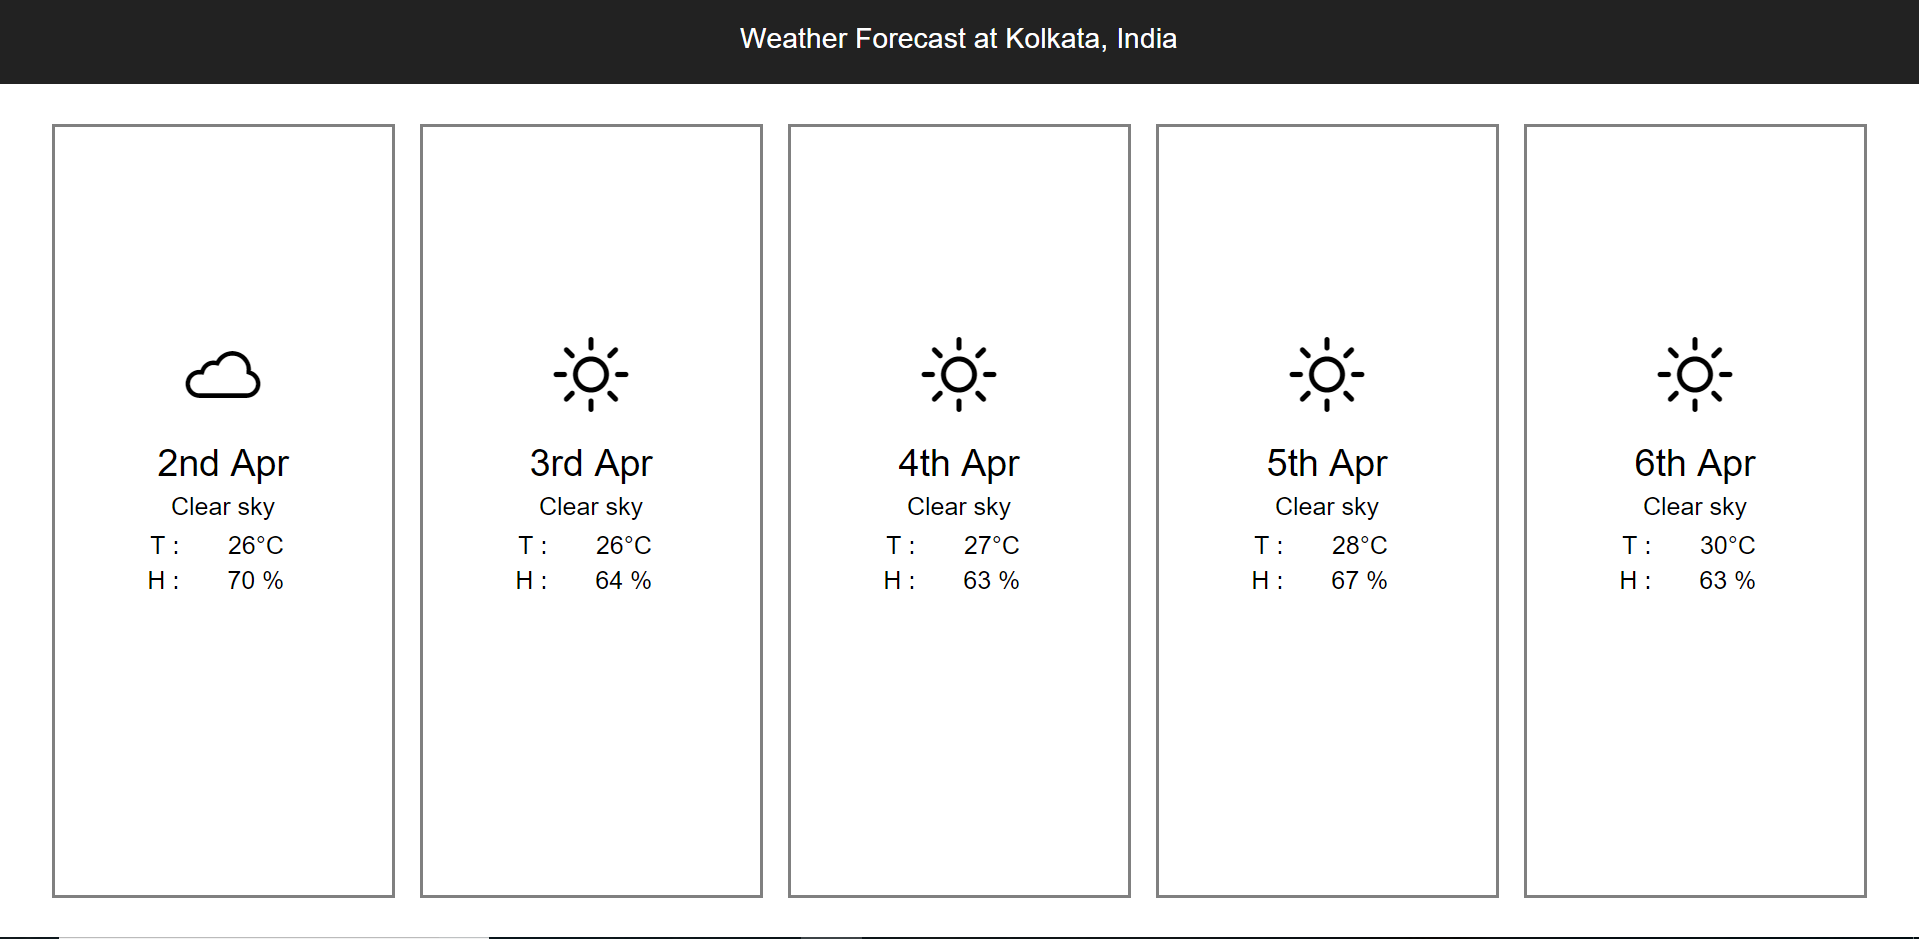
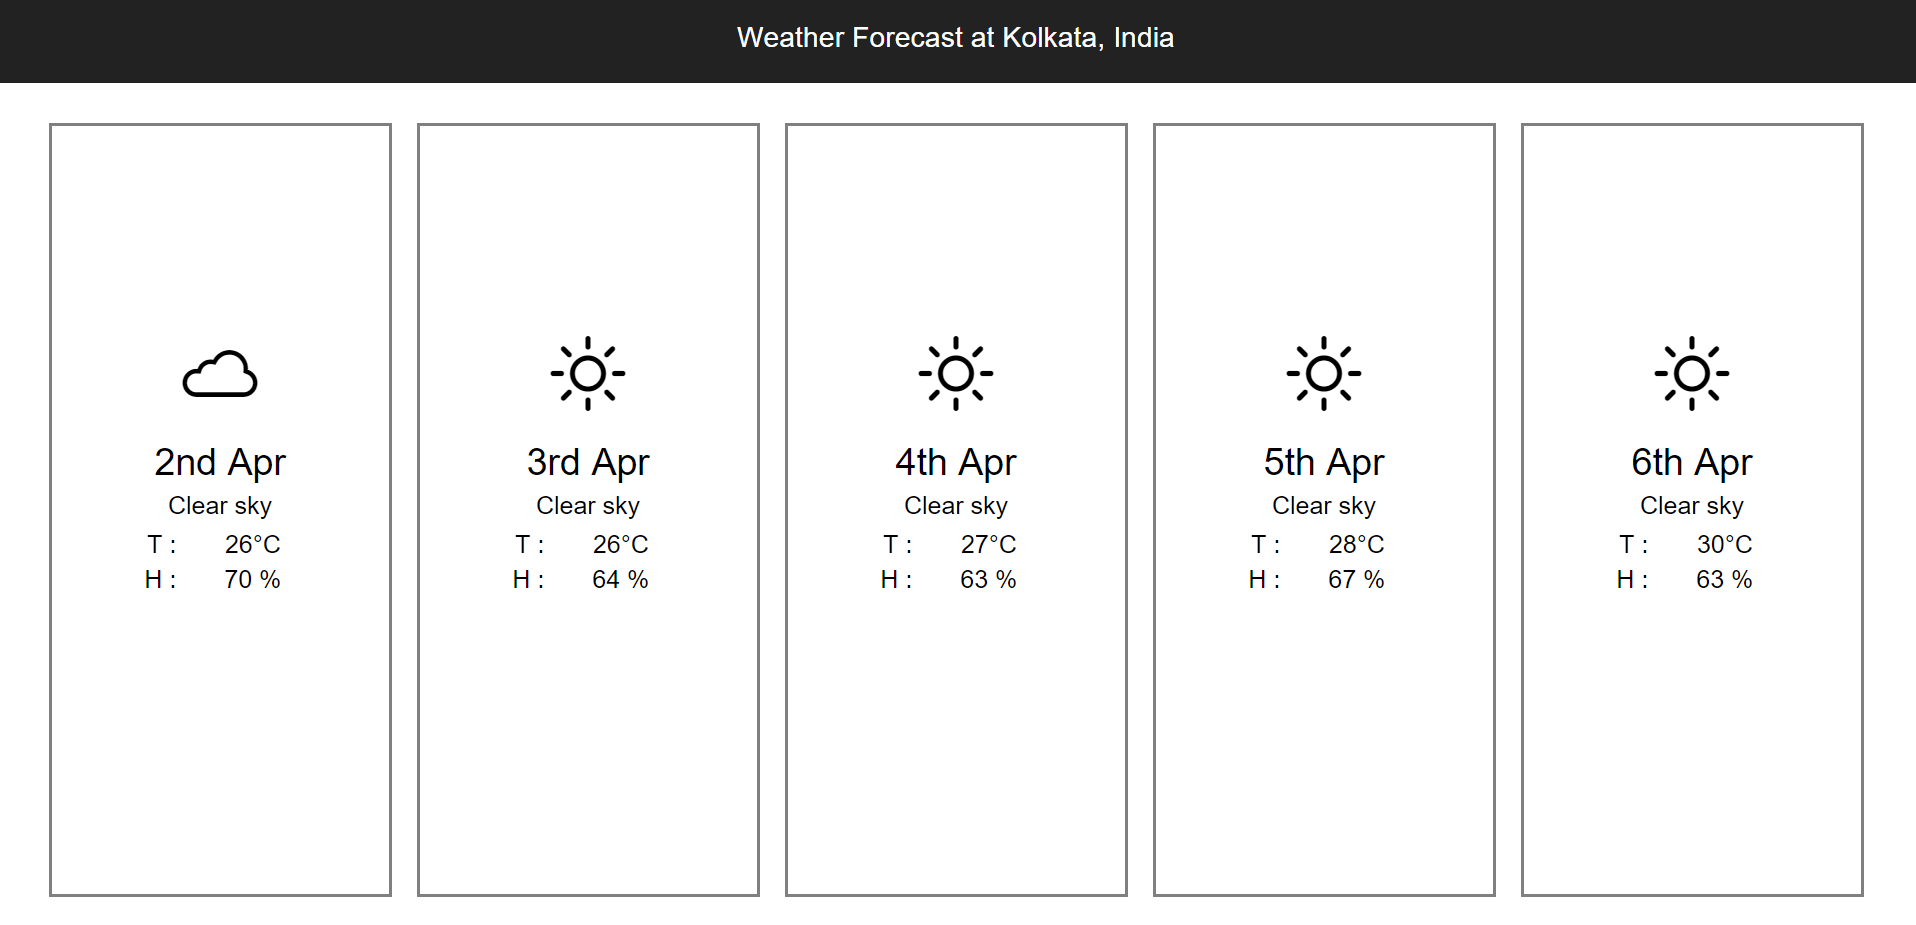
Crop init image + Add screenshot description

diff --git a/README.md b/README.md
@@ -2,8 +2,10 @@ Weather App
 -------------
 Hosted at https://weathery.netlify.com
 
+Initial view
 ![Screenshot Initial](./screenshot_init.png)
 
+Expanded view (after clicking on any day)
 ![Screenshot Expanded](./screenshot_expanded.png)
 
 Install
